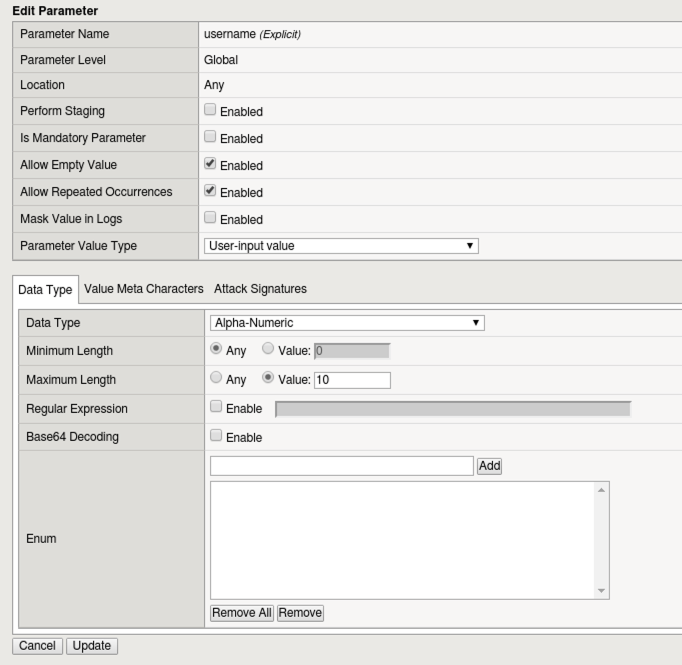
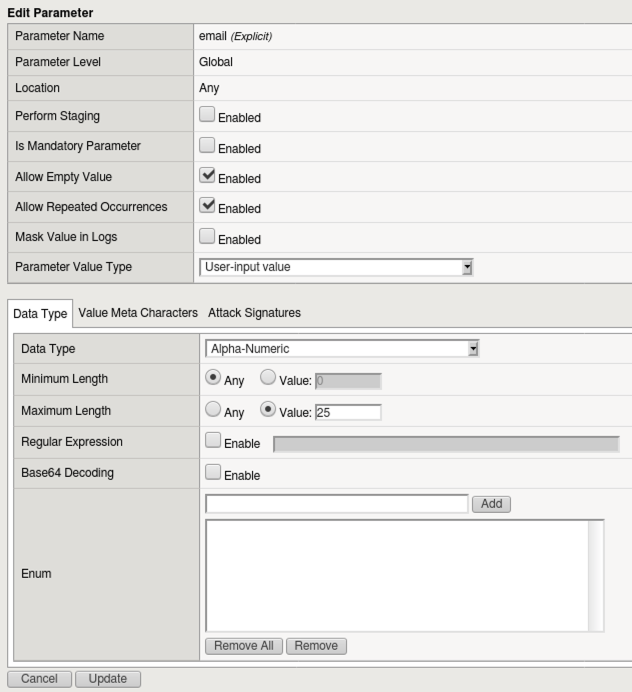
mk-M3L2-edits

Changed region(s): [[0.0, 0.0, 1.0, 1.0]]

diff --git a/docs/waf341/module3/lab2/lab2.rst b/docs/waf341/module3/lab2/lab2.rst
@@ -29,15 +29,12 @@ Task 1 - Create Parameters
 ~~~~~~~~~~~~~~~~~~~~~~~~~~~
 #. Browse to the BIGIP GUI.
 
-#. Navigate to **Security -> Application Security -> Parameters List** and click **create**. Create the username and account parameters as seen below and click **create**.
+#. Navigate to **Security -> Application Security -> Parameters List** and click **create**. Create the **email** parameter as seen below and click **create**.
 
-  **'username' parameter**
+  **email** parameter**
 
   |lab3-01|
 
-  **'account' parameter**
-
-  |lab3-02|
 
 Task 2 - Modify Learning and Blocking
 ~~~~~~~~~~~~~~~~~~~~~~~~~~~~~~~~~~~~~~
@@ -49,25 +46,23 @@ Navigate to **Security -> Application Security -> Policy Building -> Learning an
 Task 3 - Test Configuration
 ~~~~~~~~~~~~~~~~~~~~~~~~~~~~~~~~~~~~~~~
 
-#. Open a new Firefox Private Browsing window and go to the WebGoat login page at ``https://insecureapp1.f5.demo/WebGoat/login`` and login as **f5student**.
+#. Open a new Firefox Private Browsing window and go to the Juiceshop login and login as **f5student@agility.com**.
 
-#. Your login attempt should be blocked.
+#. Your login attempt should be unsuccessful.
 
-#. Examine the recent event logs under **Security -> Event Logs -> Application -> Requests** for the /WebGoat/login events.
+#. Examine the recent event logs under **Security -> Event Logs -> Application -> Requests** for the /rest/user/login events.
 
-   |lab3-04|
+   |lab3-052|
 
 #. Navigate to **Security -> Application Security -> Policy Building -> Traffic Learning**
 
 #. Review the entry for **illegal parameter value length**.
 
-   |lab3-05|
+   |lab3-053|
 
 #. Click **Accept Suggestion** and then click **Apply Policy**
 
-#. Open a new Firefox Private Browsing window and go to the to WebGoat login page at ``https://insecureapp1.f5.demo/WebGoat/login``
-
-#. login as f5student
+#. Open a new Firefox Private Browsing window and go to the to Juiceshop login as **f5student@agility.com**
 
 #. Your login should be allowed.
 
@@ -76,34 +71,5 @@ Task 3 - Test Configuration
 
    |lab3-06|
 
-#. Open a new Firefox Private Browsing window and go to the to WebGoat login page at ``https://insecureapp1.f5.demo/WebGoat/login``
-
-#. login as f5student
-
-#. Choose Injection Flaws -> SQL Injection (intro) from the menu on the left then chose page 9 from the top.
-
-   |lab3-07|
-
-#. Adjust settings as seen and click **get account info**. The attack succeeds and you should see a list of accounts.
-
-   |lab3-08|
-
-#. Navigate to **Security -> Application Security -> Parameters List** and remove the **account** parameter from staging by unchecking the Enabled checkbox next to Perform Staging. Click Update then **Apply policy**.
-
-   |lab3-09|
-
-#. Open a new Firefox Private Browsing window and go to the to WebGoat login page at ``https://insecureapp1.f5.demo/WebGoat/login``
-
-#. login as f5student
-
-#. Choose Injection Flaws -> SQL Injection (intro) from the menu on the left then chose page 9 from the top.
-
-#. Adjust settings as used in an earlier step and click 'get account info'.
-
-#. The attack should fail since you are enforcing meta characters on your parameter. In this case the ' character is not allowed.
-
-#. Review the event logs under **Security -> Event Logs -> Application -> Requests**. In this case the ' character is not allowed.
-
-  |lab3-10|
 
 This concludes Lab 3.2
